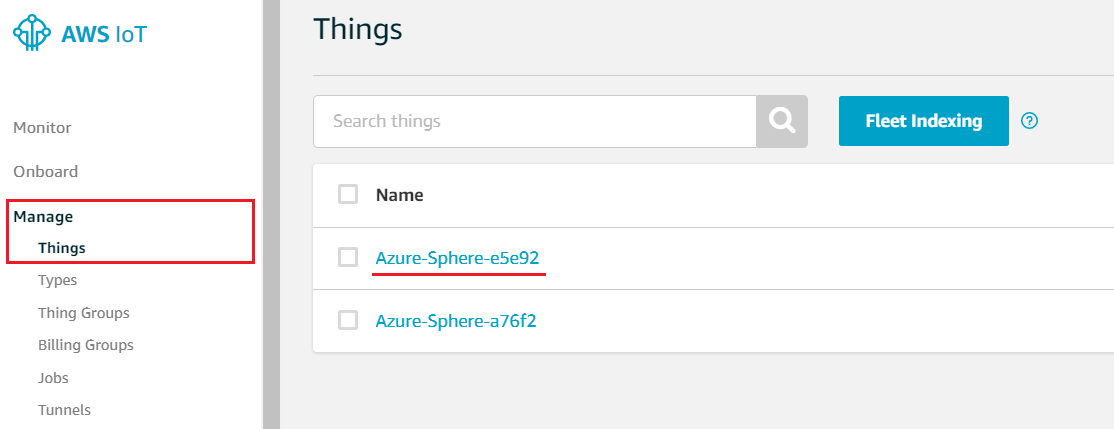
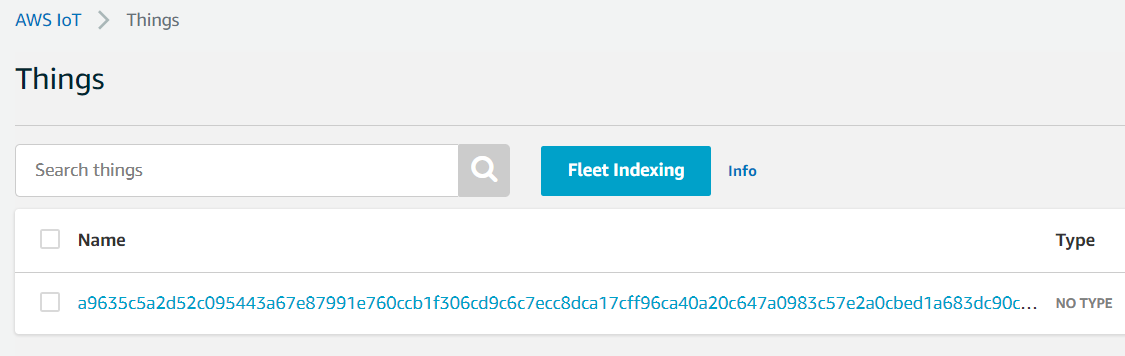
update README

diff --git a/script/preconfigure.py b/script/preconfigure.py
@@ -24,18 +24,18 @@ def utility_verison():
     return result.stdout.decode('utf-8')
 
 def utility_download_ca_certificate(file_name):
-    result = run(azsphere_program + 'tenant download-ca-certificate -o ' + file_name, capture_output=True)
+    result = run(azsphere_program + 'ca-certificate download -o ' + file_name, capture_output=True)
     str = result.stdout.decode('utf-8')
-    return True if 'Saved the CA certificate' in str else False    
+    return True if 'Saved the requested CA certificate' in str else False    
 
 def utility_download_validation_certificate(code, file_name):
-    result = run(azsphere_program + 'tenant download-validation-certificate -c ' + code + ' -o ' + file_name, capture_output=True)
+    result = run(azsphere_program + 'ca-certificate download-proof -c ' + code + ' -o ' + file_name, capture_output=True)
     str = result.stdout.decode('utf-8')
-    return True if 'Saved the validation certificate' in str else False    
+    return True if 'Saved the requested proof of possession certificate' in str else False    
 
 def register_ca_certificate():
 
-    if utility_verison() < '19.11':
+    if utility_verison() < '20.10':
         print('ERROR: update Azure Sphere SDK to the latest version')
         return
 
@@ -136,7 +136,7 @@ def create_lambda_rule(fn_name):
             Runtime='python3.7',
             Role=f'arn:aws:iam::{accountId}:role/{role_name}',
             Handler=f"{fn_name}.lambda_handler",
-            Code={'ZipFile': open(f'{fn_name}.zip', 'rb').read()},
+            Code={'ZipFile': open(f'lambda/{fn_name}.zip', 'rb').read()},
         )
 
     except lambdaclient.exceptions.ResourceConflictException:

diff --git a/aws-iot-device-sdk-embedded-C/demos/demo_config.h b/aws-iot-device-sdk-embedded-C/demos/demo_config.h
@@ -83,7 +83,7 @@
  *
  * #define AWS_IOT_ENDPOINT               "...insert here..."
  */
-#define AWS_IOT_ENDPOINT               "azu5ixsllp2fm-ats.iot.ap-northeast-1.amazonaws.com"
+#define AWS_IOT_ENDPOINT               "<iotcore>-ats.iot.<region>.amazonaws.com"
 
 /**
  * @brief AWS IoT MQTT broker port number.

diff --git a/README.md b/README.md
@@ -1,20 +1,25 @@
-# Azure Sphere Zero touch provisioning on AWS IoT Core
+# AWS IoT device SDK for Embedded C on Azure Sphere
 
-This demo use Azure Sphere's Root-of-Trust identity to register on AWS IoT Core platform through Just-in-time-registeration, aka [JITR](https://aws.amazon.com/blogs/iot/just-in-time-registration-of-device-certificates-on-aws-iot/) mechanism and publish a message to a user defined topic. User can have a zero-touch provisioning expereience with high security and trustworthy using Azure Sphere. 
+This project is a reference implemenation of AWS ioT device SDK for Embedded C running on Azure Sphere MT3620 MCU. It integrates multiple official demos include MQTT, HTTP and AWS IoT Shadow service. 
+
+Azure Sphere MCU come with a hardware Root-of-Trust and device certificate lifecycle management service (AS3) to facilitate secure connection to any cloud. This project is also a complete demo of secure connection to a 3rd party IoT cloud. 
+
+More specifically, AWS IoT Core support device Just-in-time-registeration, aka [JITR](https://aws.amazon.com/blogs/iot/just-in-time-registration-of-device-certificates-on-aws-iot/) mechanism. User can have a zero-touch provisioning expereience with high security and trustworthy when connect Azure Sphere MT3620 MCU to AWS IoT core 
 
 ## User Guide
 
 ### Prerequisite
 
-1. Azure Sphere RDB from SeeedStudio
-2. [Azure Sphere SDK](https://aka.ms/AzureSphereSDKDownload) and [Visual Studio 2019](https://visualstudio.microsoft.com/) 16.04 or later are installed on your Windows 10 PC.
-3. [Microsoft Account](https://docs.microsoft.com/en-us/azure-sphere/deployment/microsoft-account) to be used with Azure Sphere Developer Utility
-4. [AWS Account](https://aws.amazon.com/) to host your services
-5. [AWS CLI](https://aws.amazon.com/cli/) and [boto3](https://boto3.amazonaws.com/v1/documentation/api/latest/guide/quickstart.html#installation) are installed on your PC. 
+1. Azure Sphere RDB from SeeedStudio or Azure Sphere EVK from Avnet
+2. Minimum [Azure Sphere SDK](https://aka.ms/AzureSphereSDKDownload) is 20.10.
+3. [Visual Studio Code](https://code.visualstudio.com/) or [Visual Studio 2019](https://visualstudio.microsoft.com/) installed on Windows 10 PC.
+4. [Microsoft Account](https://docs.microsoft.com/en-us/azure-sphere/deployment/microsoft-account) to be used with Azure Sphere Developer Utility
+5. [AWS Account](https://aws.amazon.com/) to host your services
+6. [AWS CLI](https://aws.amazon.com/cli/) and [boto3](https://boto3.amazonaws.com/v1/documentation/api/latest/guide/quickstart.html#installation) are installed on your PC
 
 ### Setup for Azure Sphere 
 
-1. Follow the guide of [Get started with a development kit](https://docs.microsoft.com/en-us/azure-sphere/install/overview) to setup your Azure Sphere RDB and claim it your tenant. 
+1. Follow the guide of [Get started with a development kit](https://docs.microsoft.com/en-us/azure-sphere/install/overview) to setup your hardware and claim it your tenant. 
 2. [Setup WiFi for Azure Sphere](https://docs.microsoft.com/en-us/azure-sphere/install/configure-wifi#set-up-wi-fi-on-your-azure-sphere-device) and ensure it get connected to internet. 
 3. Put your device into development mode by
    
@@ -26,6 +31,11 @@ This demo use Azure Sphere's Root-of-Trust identity to register on AWS IoT Core 
    ```
    azsphere tenant show-selected
    ```
+5. Retrieve your Azure Sphere device ID in lowercase for later use
+   
+   ```
+   powershell -Command ((azsphere device show-attached)[0] -split ': ')[1].ToLower()
+   ```   
 
 ### Setup for AWS environment
 
@@ -47,7 +57,7 @@ This demo use Azure Sphere's Root-of-Trust identity to register on AWS IoT Core 
    
    > Please note all resources in this demo will be depolyed to this default region.
 
-3. All resources required on AWS will be created by the preconfigure.py script using boto3 SDK. Go to the root of this project and run the script by
+3. All resources required on AWS IoT will be created by the preconfigure.py script using boto3 SDK. Go to the root of this project and run the script by
 
     ```
     python script/preconfigure.py
@@ -65,60 +75,51 @@ This demo use Azure Sphere's Root-of-Trust identity to register on AWS IoT Core 
    
    ![](images/dp.png)
 
-5. Go to **Test** page of AWS IoT console, it launches a connected MQTT client to test messages Pub/Sub. Subscribe **myhome/myroom** topic for testing. 
+5. To test with HTTP upload and download use case, user must create your own bucket and generate presigned URL for authorized resource access.
 
-    ![](images/sub.png)
-
-### Build and deploy the application
+### Build and deploy the application (VS2019)
 
 1. Start Visual Studio 2019
 2. From the **File** menu, select **Open > CMake...** and navigate to the folder that contains the sample.
 3. Select the file CMakeLists.txt and then click **Open** to load the project.
-4. Go to app_manifest.json file, replace `<custom-endpoint-url>` and `<your-tenant-id>` string with correct value record in previous steps
+4. Go to app_manifest.json file, replace `<iotcore>-ats.iot.<region>.amazonaws.com`, `<s3bucket>.s3.amazonaws.com` and `<tenant-id>` string with correct value record in previous steps
    
     ![](images/manifest.png)
 
-5. Go to main.c, replace `<custom-endpoint-url>` with your AWS IoT custom endpoint URL string. 
+5. Go to .\azure-sphere-aws-iot-device-sdk-embedded-c\aws-iot-device-sdk-embedded-C\demos\demo_config.h, modify following macros.
 
-    ![](images/main.png)
-
-6. In Solution Explorer, right-click the CMakeLists.txt file, and select **Generate Cache for azure-sphere-libcurl-awsiotcore**. This step performs the cmake build process to generate the native ninja build files. 
-7. In Solution Explorer, right-click the *CMakeLists.txt* file, and select **Build** to build the project and generate .imagepackage target.
-8. Double click *CMakeLists.txt* file and press F5 to start the application with debugging. You will observe logs
+    1. replace iotcore endpoint with your own uri
    
-    ```
-    Example to connect AWS IoT Core using HTTPS protocol
-   *   Trying 52.193.88.66...
-   * TCP_NODELAY set
+        ![](images/iotcoreep.png)
 
-   * 
-   Connected to azu5ixsllp2fm-ats.iot.ap-northeast-1.amazonaws.com (52.193.88.66) port 8443 (#0)
+    1. define S3 presigned PUT and GET url
+    
+        ![](images/s3url.png)
 
-    ......
+    1. replace thing name with your Azure Sphere device ID in lowercase. The thing identity will be created by lambda function for the first time device connect to AWS IoT core.
+   
+        ![](images/thingname.png)
+ 
 
-    HTTP/1.1 200 OK
-    < content-type: application/json
-    < content-length: 65
-    < date: Fri, 27 Dec 2019 01:30:19 GMT
-    < x-amzn-RequestId: 8cbd40a3-dc5a-d1a1-3fdd-14154f171077
-    < connection: keep-alive
-    < 
-    * Connection #1 to host azu5ixsllp2fm-ats.iot.ap-northeast-1.amazonaws.com left intact
-    ```
+6. In Solution Explorer, right-click the CMakeLists.txt file, and select **Generate Cache for azure-sphere-aws-iot-device-sdk-embedded-c**. This step performs the cmake build process to generate the native ninja build files. 
+7. In Solution Explorer, right-click the *CMakeLists.txt* file, and select **Build** to build the project and generate .imagepackage target.
+8.  Double click *CMakeLists.txt* file and press F5 to start the application with debugging. The default code has enabled all 5 subroutines. 
 
-### Test result 
+### Verify result 
 
-1. In the previous step you have setup the test MQTT client in AWS IoT console, after few seconds launching Azure Sphere, you will see a message is received on the test MQTT client
-
-    ![](images/result.png)
-
-9.  Go to AWS IoT console **Manage**/**Things** page, your Azure Sphere device will be listed, the display name is 'Azure-Sphere-[fisrt 5 characters of device ID]'. 
+1.  Go to AWS IoT console **Manage**/**Things** page, your Azure Sphere device will be listed, the display name is azure sphere device id. 
 
     ![](images/device.png)
 
-10. Go to AWS IoT console **Secure**/**Certificates** page, you will see the device certificate in use is registered. Try to reboot your device by unplug USB cable, afer a while you will observe the device certificate id is changed but still linking to your device in Thing registry. 
+2. click the thing to check the details, you can see the device shadow is created with some properties.
+   
+   ![](images/shadow.png)
+
+3.  Go to AWS IoT console **Secure**/**Certificates** page, you will see the device certificate in use is registered. Try to reboot your device, afer a while you will observe the device certificate id is changed but still linking to your device in the thing registry. 
 
     ![](images/cert.png)
+
+4. Go to S3 console, open the right bucket and check the uploaded object content: Hello World!
 
 ## Workflow
 
